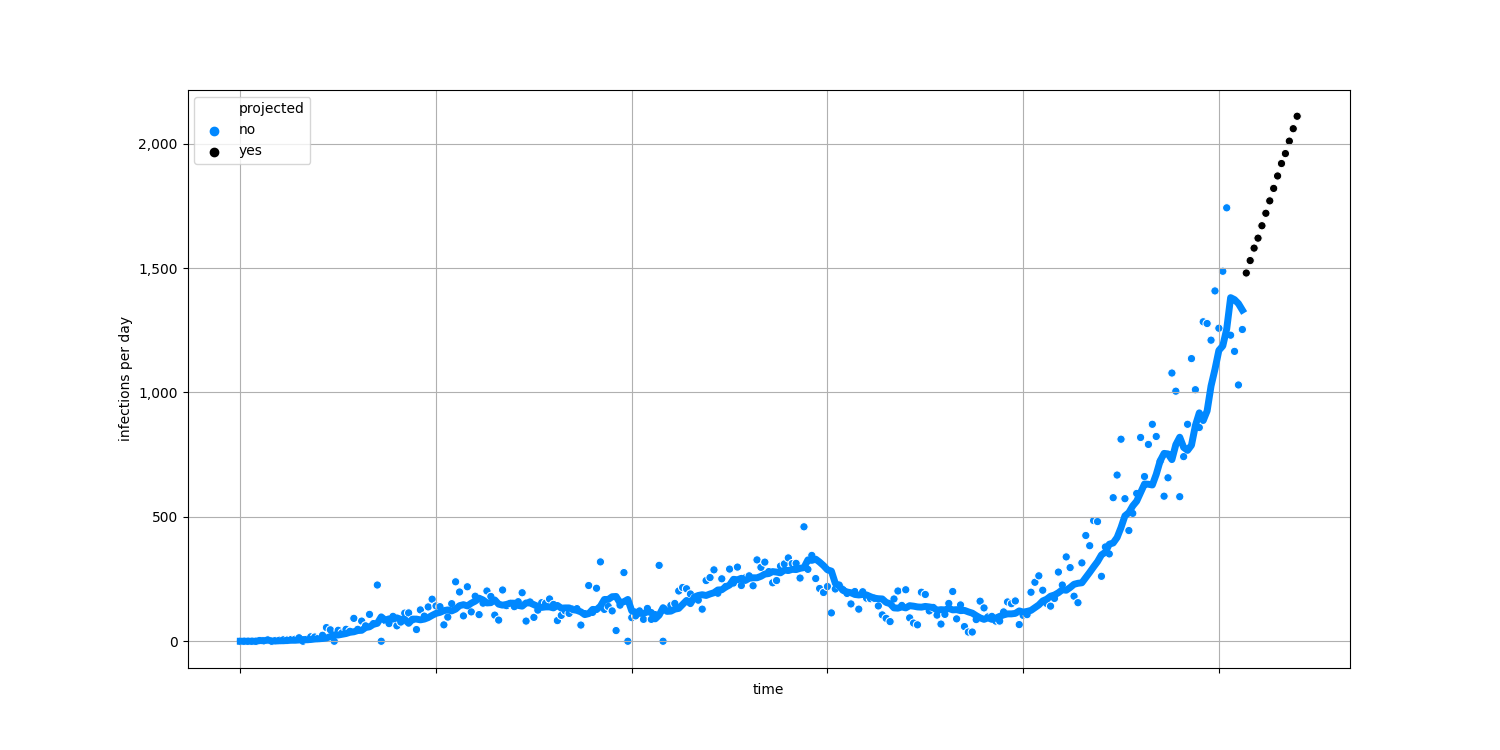
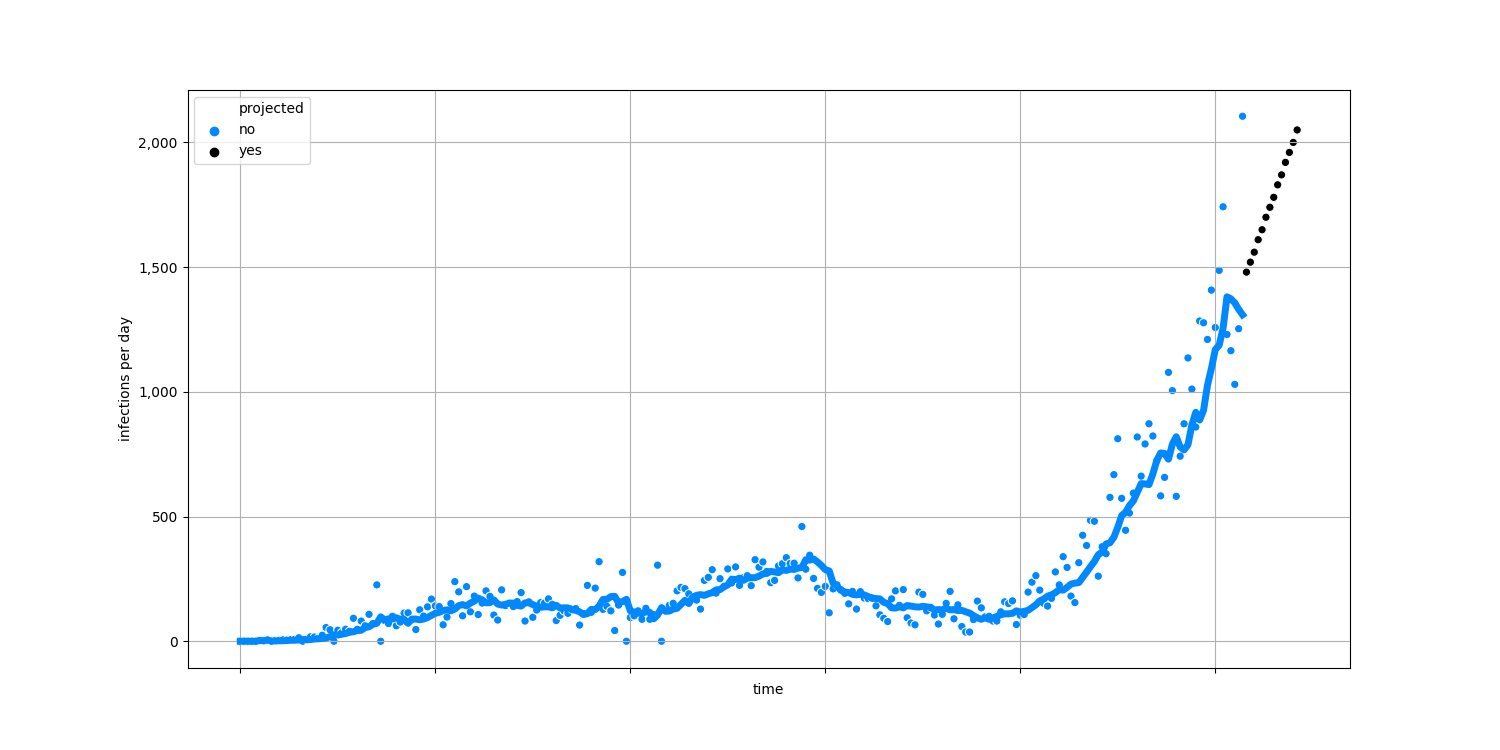
regular update

diff --git a/docs/table.html b/docs/table.html
@@ -100,7 +100,7 @@
     <script type="text/javascript">
       window.addEventListener('DOMContentLoaded', () => {
 
-        const data = [{'state': 'Alabama', 'deaths_per_million_per_day': '5', 'positive_per_million_per_day': '419'}, {'state': 'Alaska', 'deaths_per_million_per_day': '3', 'positive_per_million_per_day': '790'}, {'state': 'American Samoa', 'deaths_per_million_per_day': '0', 'positive_per_million_per_day': '0'}, {'state': 'Arizona', 'deaths_per_million_per_day': '3', 'positive_per_million_per_day': '338'}, {'state': 'Arkansas', 'deaths_per_million_per_day': '6', 'positive_per_million_per_day': '546'}, {'state': 'California', 'deaths_per_million_per_day': '1', 'positive_per_million_per_day': '207'}, {'state': 'Colorado', 'deaths_per_million_per_day': '2', 'positive_per_million_per_day': '823'}, {'state': 'Connecticut', 'deaths_per_million_per_day': '3', 'positive_per_million_per_day': '474'}, {'state': 'Delaware', 'deaths_per_million_per_day': '2', 'positive_per_million_per_day': '336'}, {'state': 'District of Columbia', 'deaths_per_million_per_day': '1', 'positive_per_million_per_day': '198'}, {'state': 'Florida', 'deaths_per_million_per_day': '3', 'positive_per_million_per_day': '273'}, {'state': 'Georgia', 'deaths_per_million_per_day': '4', 'positive_per_million_per_day': '185'}, {'state': 'Guam', 'deaths_per_million_per_day': '6', 'positive_per_million_per_day': '603'}, {'state': 'Hawaii', 'deaths_per_million_per_day': '0', 'positive_per_million_per_day': '68'}, {'state': 'Idaho', 'deaths_per_million_per_day': '6', 'positive_per_million_per_day': '740'}, {'state': 'Illinois', 'deaths_per_million_per_day': '7', 'positive_per_million_per_day': '977'}, {'state': 'Indiana', 'deaths_per_million_per_day': '6', 'positive_per_million_per_day': '896'}, {'state': 'Iowa', 'deaths_per_million_per_day': '6', 'positive_per_million_per_day': '1,106'}, {'state': 'Kansas', 'deaths_per_million_per_day': '4', 'positive_per_million_per_day': '941'}, {'state': 'Kentucky', 'deaths_per_million_per_day': '3', 'positive_per_million_per_day': '528'}, {'state': 'Louisiana', 'deaths_per_million_per_day': '3', 'positive_per_million_per_day': '359'}, {'state': 'Maine', 'deaths_per_million_per_day': '1', 'positive_per_million_per_day': '131'}, {'state': 'Maryland', 'deaths_per_million_per_day': '2', 'positive_per_million_per_day': '290'}, {'state': 'Massachusetts', 'deaths_per_million_per_day': '4', 'positive_per_million_per_day': '364'}, {'state': 'Michigan', 'deaths_per_million_per_day': '6', 'positive_per_million_per_day': '724'}, {'state': 'Minnesota', 'deaths_per_million_per_day': '6', 'positive_per_million_per_day': '1,171'}, {'state': 'Mississippi', 'deaths_per_million_per_day': '5', 'positive_per_million_per_day': '369'}, {'state': 'Missouri', 'deaths_per_million_per_day': '5', 'positive_per_million_per_day': '715'}, {'state': 'Montana', 'deaths_per_million_per_day': '8', 'positive_per_million_per_day': '1,066'}, {'state': 'Nebraska', 'deaths_per_million_per_day': '6', 'positive_per_million_per_day': '1,048'}, {'state': 'Nevada', 'deaths_per_million_per_day': '3', 'positive_per_million_per_day': '516'}, {'state': 'New Hampshire', 'deaths_per_million_per_day': '1', 'positive_per_million_per_day': '245'}, {'state': 'New Jersey', 'deaths_per_million_per_day': '2', 'positive_per_million_per_day': '400'}, {'state': 'New Mexico', 'deaths_per_million_per_day': '7', 'positive_per_million_per_day': '635'}, {'state': 'New York', 'deaths_per_million_per_day': '1', 'positive_per_million_per_day': '231'}, {'state': 'North Carolina', 'deaths_per_million_per_day': '3', 'positive_per_million_per_day': '264'}, {'state': 'North Dakota', 'deaths_per_million_per_day': '18', 'positive_per_million_per_day': '1,768'}, {'state': 'Northern Mariana Islands', 'deaths_per_million_per_day': '0', 'positive_per_million_per_day': '0'}, {'state': 'Ohio', 'deaths_per_million_per_day': '3', 'positive_per_million_per_day': '616'}, {'state': 'Oklahoma', 'deaths_per_million_per_day': '3', 'positive_per_million_per_day': '664'}, {'state': 'Oregon', 'deaths_per_million_per_day': '1', 'positive_per_million_per_day': '220'}, {'state': 'Pennsylvania', 'deaths_per_million_per_day': '3', 'positive_per_million_per_day': '394'}, {'state': 'Puerto Rico', 'deaths_per_million_per_day': '3', 'positive_per_million_per_day': '199'}, {'state': 'Rhode Island', 'deaths_per_million_per_day': '5', 'positive_per_million_per_day': '798'}, {'state': 'South Carolina', 'deaths_per_million_per_day': '3', 'positive_per_million_per_day': '284'}, {'state': 'South Dakota', 'deaths_per_million_per_day': '17', 'positive_per_million_per_day': '1,610'}, {'state': 'Tennessee', 'deaths_per_million_per_day': '7', 'positive_per_million_per_day': '651'}, {'state': 'Texas', 'deaths_per_million_per_day': '4', 'positive_per_million_per_day': '320'}, {'state': 'U.S. Virgin Islands', 'deaths_per_million_per_day': '0', 'positive_per_million_per_day': '38'}, {'state': 'Utah', 'deaths_per_million_per_day': '3', 'positive_per_million_per_day': '932'}, {'state': 'Vermont', 'deaths_per_million_per_day': '0', 'positive_per_million_per_day': '136'}, {'state': 'Virginia', 'deaths_per_million_per_day': '2', 'positive_per_million_per_day': '187'}, {'state': 'Washington', 'deaths_per_million_per_day': '1', 'positive_per_million_per_day': '238'}, {'state': 'West Virginia', 'deaths_per_million_per_day': '4', 'positive_per_million_per_day': '452'}, {'state': 'Wisconsin', 'deaths_per_million_per_day': '9', 'positive_per_million_per_day': '1,182'}, {'state': 'Wyoming', 'deaths_per_million_per_day': '7', 'positive_per_million_per_day': '1,279'}, {'state': 'United States', 'deaths_per_million_per_day': '3', 'positive_per_million_per_day': '455'}];
+        const data = [{'state': 'Alabama', 'deaths_per_million_per_day': '5', 'positive_per_million_per_day': '419'}, {'state': 'Alaska', 'deaths_per_million_per_day': '3', 'positive_per_million_per_day': '790'}, {'state': 'American Samoa', 'deaths_per_million_per_day': '0', 'positive_per_million_per_day': '0'}, {'state': 'Arizona', 'deaths_per_million_per_day': '3', 'positive_per_million_per_day': '338'}, {'state': 'Arkansas', 'deaths_per_million_per_day': '6', 'positive_per_million_per_day': '546'}, {'state': 'California', 'deaths_per_million_per_day': '1', 'positive_per_million_per_day': '207'}, {'state': 'Colorado', 'deaths_per_million_per_day': '2', 'positive_per_million_per_day': '823'}, {'state': 'Connecticut', 'deaths_per_million_per_day': '3', 'positive_per_million_per_day': '474'}, {'state': 'Delaware', 'deaths_per_million_per_day': '2', 'positive_per_million_per_day': '336'}, {'state': 'District of Columbia', 'deaths_per_million_per_day': '1', 'positive_per_million_per_day': '198'}, {'state': 'Florida', 'deaths_per_million_per_day': '3', 'positive_per_million_per_day': '273'}, {'state': 'Georgia', 'deaths_per_million_per_day': '4', 'positive_per_million_per_day': '185'}, {'state': 'Guam', 'deaths_per_million_per_day': '6', 'positive_per_million_per_day': '603'}, {'state': 'Hawaii', 'deaths_per_million_per_day': '0', 'positive_per_million_per_day': '68'}, {'state': 'Idaho', 'deaths_per_million_per_day': '6', 'positive_per_million_per_day': '740'}, {'state': 'Illinois', 'deaths_per_million_per_day': '7', 'positive_per_million_per_day': '977'}, {'state': 'Indiana', 'deaths_per_million_per_day': '6', 'positive_per_million_per_day': '896'}, {'state': 'Iowa', 'deaths_per_million_per_day': '6', 'positive_per_million_per_day': '1,106'}, {'state': 'Kansas', 'deaths_per_million_per_day': '4', 'positive_per_million_per_day': '941'}, {'state': 'Kentucky', 'deaths_per_million_per_day': '3', 'positive_per_million_per_day': '528'}, {'state': 'Louisiana', 'deaths_per_million_per_day': '3', 'positive_per_million_per_day': '359'}, {'state': 'Maine', 'deaths_per_million_per_day': '1', 'positive_per_million_per_day': '131'}, {'state': 'Maryland', 'deaths_per_million_per_day': '2', 'positive_per_million_per_day': '290'}, {'state': 'Massachusetts', 'deaths_per_million_per_day': '4', 'positive_per_million_per_day': '364'}, {'state': 'Michigan', 'deaths_per_million_per_day': '6', 'positive_per_million_per_day': '724'}, {'state': 'Minnesota', 'deaths_per_million_per_day': '6', 'positive_per_million_per_day': '1,171'}, {'state': 'Mississippi', 'deaths_per_million_per_day': '5', 'positive_per_million_per_day': '369'}, {'state': 'Missouri', 'deaths_per_million_per_day': '5', 'positive_per_million_per_day': '715'}, {'state': 'Montana', 'deaths_per_million_per_day': '8', 'positive_per_million_per_day': '1,066'}, {'state': 'Nebraska', 'deaths_per_million_per_day': '6', 'positive_per_million_per_day': '1,048'}, {'state': 'Nevada', 'deaths_per_million_per_day': '3', 'positive_per_million_per_day': '516'}, {'state': 'New Hampshire', 'deaths_per_million_per_day': '1', 'positive_per_million_per_day': '245'}, {'state': 'New Jersey', 'deaths_per_million_per_day': '2', 'positive_per_million_per_day': '400'}, {'state': 'New Mexico', 'deaths_per_million_per_day': '7', 'positive_per_million_per_day': '624'}, {'state': 'New York', 'deaths_per_million_per_day': '1', 'positive_per_million_per_day': '231'}, {'state': 'North Carolina', 'deaths_per_million_per_day': '3', 'positive_per_million_per_day': '264'}, {'state': 'North Dakota', 'deaths_per_million_per_day': '18', 'positive_per_million_per_day': '1,768'}, {'state': 'Northern Mariana Islands', 'deaths_per_million_per_day': '0', 'positive_per_million_per_day': '0'}, {'state': 'Ohio', 'deaths_per_million_per_day': '3', 'positive_per_million_per_day': '616'}, {'state': 'Oklahoma', 'deaths_per_million_per_day': '3', 'positive_per_million_per_day': '664'}, {'state': 'Oregon', 'deaths_per_million_per_day': '1', 'positive_per_million_per_day': '220'}, {'state': 'Pennsylvania', 'deaths_per_million_per_day': '3', 'positive_per_million_per_day': '394'}, {'state': 'Puerto Rico', 'deaths_per_million_per_day': '3', 'positive_per_million_per_day': '199'}, {'state': 'Rhode Island', 'deaths_per_million_per_day': '5', 'positive_per_million_per_day': '798'}, {'state': 'South Carolina', 'deaths_per_million_per_day': '3', 'positive_per_million_per_day': '284'}, {'state': 'South Dakota', 'deaths_per_million_per_day': '17', 'positive_per_million_per_day': '1,610'}, {'state': 'Tennessee', 'deaths_per_million_per_day': '7', 'positive_per_million_per_day': '651'}, {'state': 'Texas', 'deaths_per_million_per_day': '4', 'positive_per_million_per_day': '320'}, {'state': 'U.S. Virgin Islands', 'deaths_per_million_per_day': '0', 'positive_per_million_per_day': '38'}, {'state': 'Utah', 'deaths_per_million_per_day': '3', 'positive_per_million_per_day': '932'}, {'state': 'Vermont', 'deaths_per_million_per_day': '0', 'positive_per_million_per_day': '136'}, {'state': 'Virginia', 'deaths_per_million_per_day': '2', 'positive_per_million_per_day': '187'}, {'state': 'Washington', 'deaths_per_million_per_day': '1', 'positive_per_million_per_day': '238'}, {'state': 'West Virginia', 'deaths_per_million_per_day': '4', 'positive_per_million_per_day': '452'}, {'state': 'Wisconsin', 'deaths_per_million_per_day': '9', 'positive_per_million_per_day': '1,182'}, {'state': 'Wyoming', 'deaths_per_million_per_day': '7', 'positive_per_million_per_day': '1,279'}, {'state': 'United States', 'deaths_per_million_per_day': '3', 'positive_per_million_per_day': '455'}];
 
         const render = () => {
           const tbody = document.querySelector('tbody');

diff --git a/docs/NM.html b/docs/NM.html
@@ -73,12 +73,12 @@
       </div>
         <div class="grid-col-9">
           <h1 class="font-body-2xl">
-            New Mexico has had about 1,236 COVID-19 deaths and
-            65,454 confirmed cases.
+            New Mexico has had about 1,264 COVID-19 deaths and
+            67,559 confirmed cases.
             <small>
-              That's about <strong>31,216 out of every
+              That's about <strong>32,220 out of every
               1,000,000</strong> people who we know are or have
-              been infected. About <strong>1.89%</strong>
+              been infected. About <strong>1.87%</strong>
               of people who have tested positive have died.
             </small>
           </h1>
@@ -86,13 +86,13 @@
           <p class="font-body-md">
             Today there were
              <strong>
-            1,253</strong> COVID-19
+            2,105</strong> COVID-19
             cases identified.
-            There are about <strong>1,331</strong> new
+            There are about <strong>1,309</strong> new
             cases identified every day (7-day average). At the current rate, the
             average number of new cases per day will be about
-            <strong>1,770</strong> in 7 days and
-            about <strong>2,110</strong> in 14
+            <strong>1,740</strong> in 7 days and
+            about <strong>2,050</strong> in 14
             days. This chart shows the number of new cases each day since the
             first case was identified. The dots are the total number of new
             cases for each day and the line is the average of the previous seven
@@ -104,13 +104,13 @@
           <p class="font-body-md">
             Today there were
              <strong>
-            21</strong> COVID-19
+            28</strong> COVID-19
             deaths.
-            There are about <strong>14</strong> new
+            There are about <strong>15</strong> new
             deaths every day (7-day average). At the current rate, the average
             number of people dying each day will be about
-            <strong>19</strong> in 7 days and
-            about <strong>22</strong> in 14
+            <strong>18</strong> in 7 days and
+            about <strong>21</strong> in 14
             days. This chart shows the number of deaths each day since the first
             case was identified. The dots are the total number of deaths for
             each day and the line is the average of the previous seven days. The
